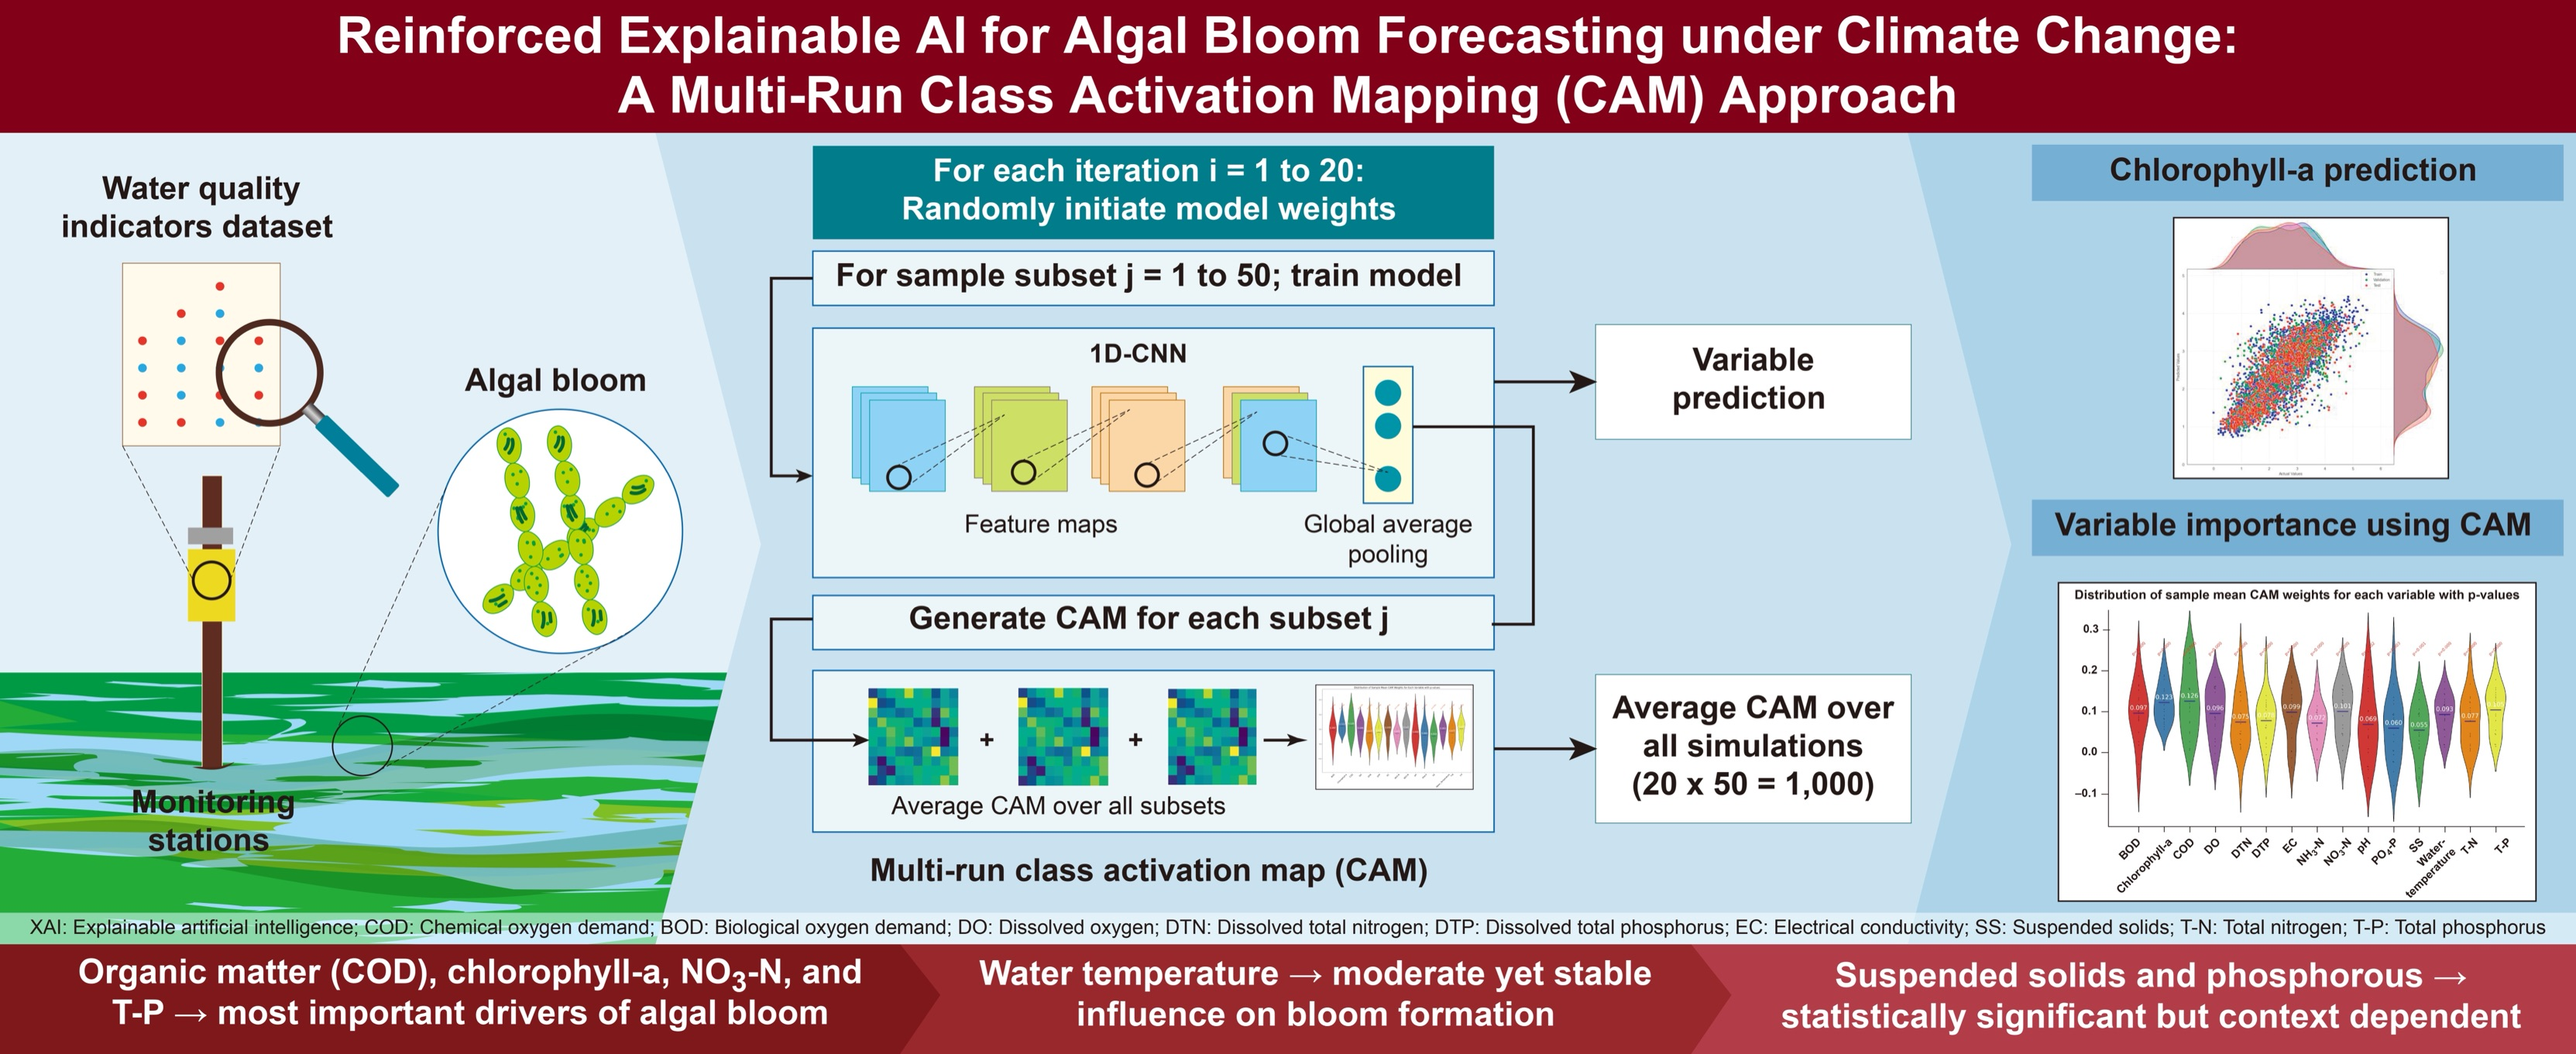
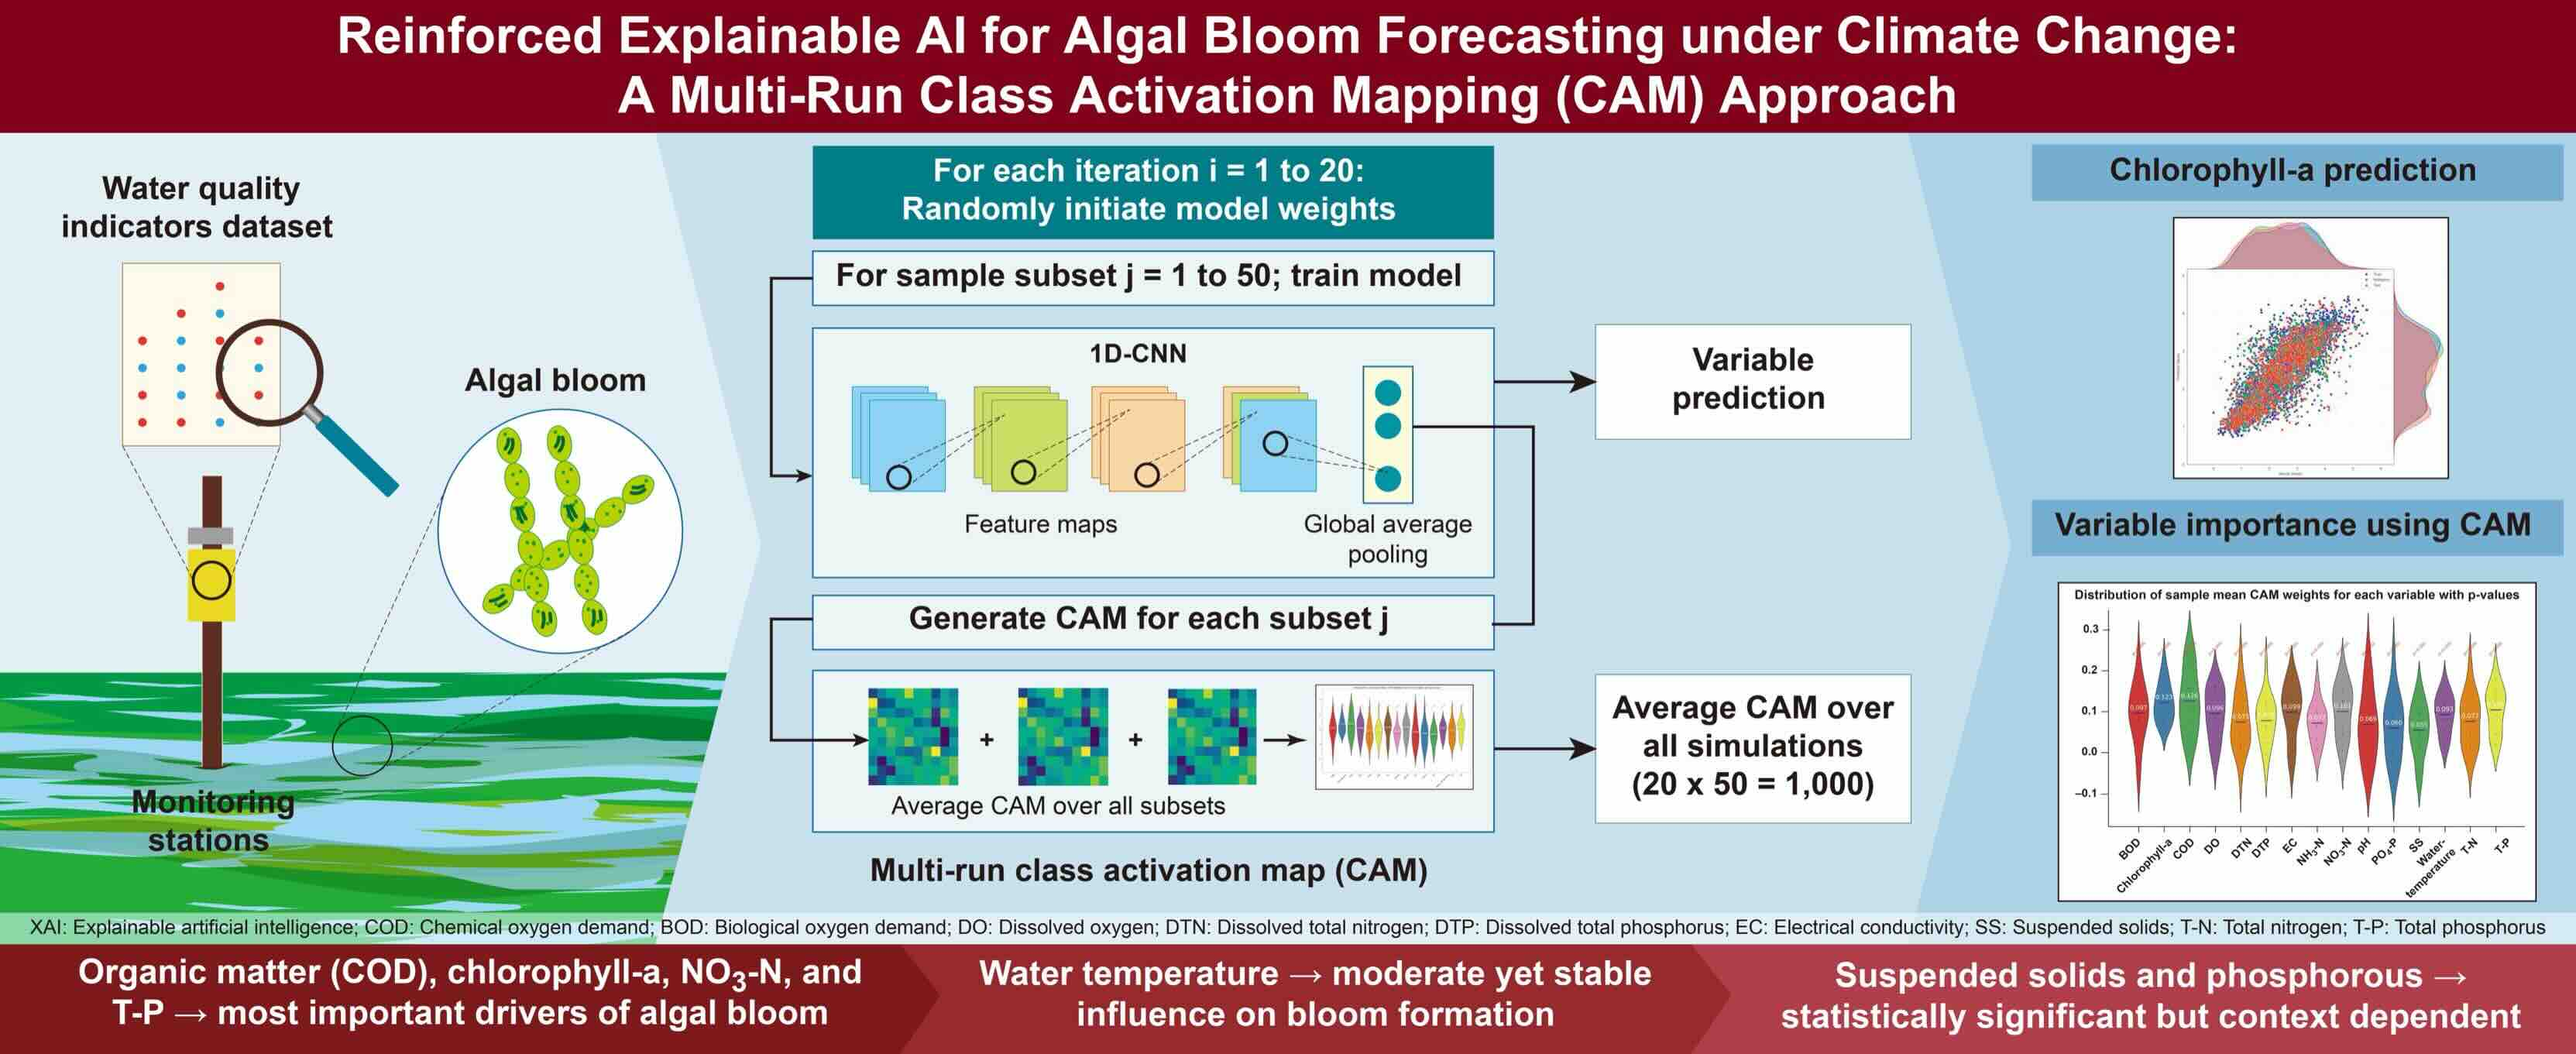
20251115_09

diff --git a/_news/2025-11-13-sungbum-park-seminar.md b/_news/2025-11-13-sungbum-park-seminar.md
@@ -9,4 +9,4 @@ We had a special seminar by **Sungbum Park**, a Solutions Architect from a leadi
 
 He delivered an insightful lecture on **"Agentic AI & Cloud"** and provided valuable career mentoring to our students. We sincerely thank him for sharing his expertise and time.
 
-![Sungbum Park Seminar](/assets/img/posts/post_2025-11-13.jpg){:style="max-width: 600px;"}
+<img src="/assets/img/posts/post_2025-11-13.jpg" alt="Sungbum Park Seminar" style="max-width: 600px;">

diff --git a/_news/2025-11-14-hyun-jung-seminar.md b/_news/2025-11-14-hyun-jung-seminar.md
@@ -11,4 +11,4 @@ He delivered a practical talk titled **"The Role of a Data Analyst in an IT Star
 
 It was a fantastic session providing realistic advice to our current students. We are proud of him and thankful for the visit!
 
-![Hyun Jung Seminar](/assets/img/posts/post_2025-11-14.jpg){:style="max-width: 600px;"}
+<img src="/assets/img/posts/post_2025-11-14.jpg" alt="Hyun Jung Seminar" style="max-width: 600px;">

diff --git a/_pages/publications.md b/_pages/publications.md
@@ -4,13 +4,8 @@ permalink: /publications/
 title: Publications
 description: Publications from Donghyun Lee AI Group. Underline indicates group members, and * indicates the corresponding author.
 nav: true
-nav: true
 nav_order: 3
 ---
-
-<!-- _pages/publications.md -->
-
-<!-- Bibsearch Feature -->
 
 {% include bib_search.liquid %}
 
